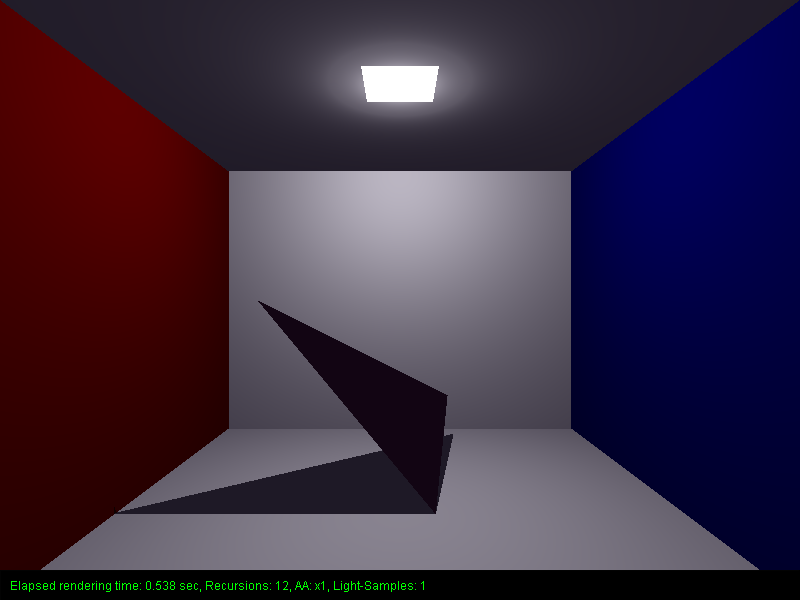
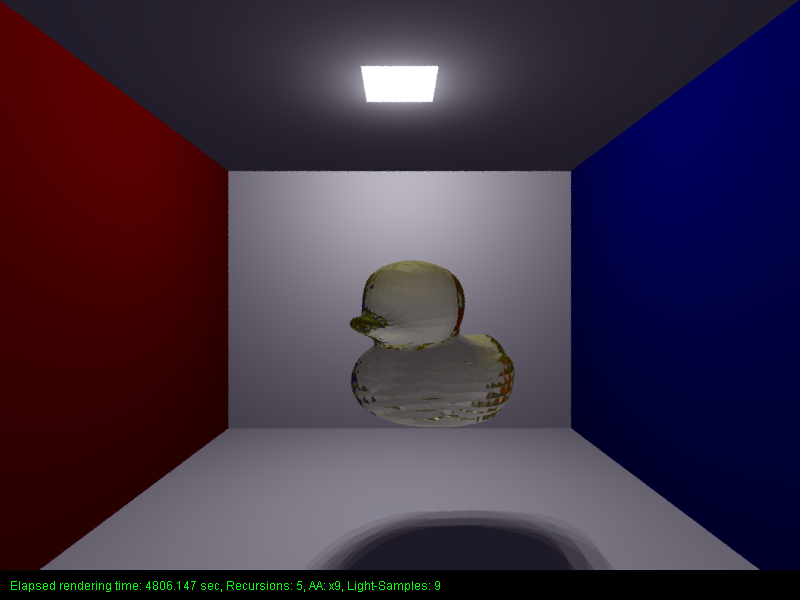
smol transformation order fix and more rendering

Changed region(s): [[0.125, 0.42, 0.7812, 0.99]]

diff --git a/VCG_Raytracer/src/Main.java b/VCG_Raytracer/src/Main.java
@@ -62,14 +62,14 @@ public class Main {
 
     /** RAYTRACER **/
 
-    static final int RECURSIONS = 12;
-    static final int ANTI_ALIASING = (int) Math.pow(1, 2); // only valid AA values are 1 and any number whose sqr root
+    static final int RECURSIONS = 5;
+    static final int ANTI_ALIASING = (int) Math.pow(3, 2); // only valid AA values are 1 and any number whose sqr root
                                                            // results a whole number
     static final boolean USE_SOFT_SHADOWS = false;
 
     /** LIGHT **/
     static final short LIGHT_DENSITY = 20;
-    static final short LIGHT_SAMPLES = (short) Math.pow(1, 2);// only valid AA values are 1 and any number whose sqr
+    static final short LIGHT_SAMPLES = (short) Math.pow(3, 2);// only valid AA values are 1 and any number whose sqr
                                                               // root results a whole number
 
     static final RgbColor BACKGROUND_COLOR = RgbColor.BLACK;
@@ -185,7 +185,7 @@ public class Main {
 
         Material mat_lamp = new Solid();
 
-        Material mat_phong_transparent = new Phong(RgbColor.RED, new RgbColor(0.8f, 1f, 0.8f), 18, 0.0f, 0.8f, WATER);
+        Material mat_phong_transparent = new Phong(RgbColor.PURPLE, new RgbColor(0.8f, 1f, 0.8f), 18, 0.0f, 0.8f, DIAMOND);
 
         // Objects
         // renderScene.createSphere(new Vec3(1.2f,1f,-1.5f), 1f, mat_phong_shiny);
@@ -207,13 +207,13 @@ public class Main {
         // cube tower test
         // renderScene.createCubeTower(1f, new Vec3(-2, 0.5f, -1.5f), mat_phong_shiny);
 
-        renderScene.createPolygon(new Vec3(0.5f, 0, 0), new Vec3(-2, 3, 0), new Vec3(1, 1, -3), mat_lambert);
+        //renderScene.createPolygon(new Vec3(0.5f, 0, 0), new Vec3(-2, 3, 0), new Vec3(1, 1, -3), mat_lambert);
 
         InputStream inStream;
         try { 
-            //we have stanford bunny as a file but it has 5k faces so would take too long to render and would need to be scaled up massively due to v's being e-3 as an example
+            //we have stanford bunny as a file but it has 5k faces so would take too long to render and would need to be scaled up massively due to v's being e-3 as an example --> needs scaling 18ish
             //we also have a 3k faces duck which loads alone but not great together with stuff and as water doesnt look amazing without AA but looks alright with yellow water
-            inStream = new FileInputStream("VCG_Raytracer/models/duck.obj");
+            inStream = new FileInputStream("VCG_Raytracer/models/duck_3k.obj");
             
 
             PolygonMesh polygonMesh;
@@ -221,11 +221,11 @@ public class Main {
             polygonMesh = ObjImporter.load(
                     inStream,
                     new Phong(RgbColor.YELLOW, new RgbColor(0.8f, 1f, 0.8f), 18, 0.0f, 0.8f, WATER),
-                    new Vec3(0f, 0f, -1.4f),
+                    new Vec3(0f, 0f, 0f),
                     new Vec3(0, -45, 0),
-                    2f);
+                    1.7f);
 
-            //renderScene.addShape(polygonMesh); //commented out to make the uploaded version easier to run for now and totally not to hide our masterpiece hehehe
+            renderScene.addShape(polygonMesh); //commented out to make the uploaded version easier to run for now and totally not to hide our masterpiece hehehe
         } catch (Exception e) {
             // TODO Auto-generated catch block
             e.printStackTrace();
@@ -246,8 +246,8 @@ public class Main {
 
             polygonMesh = ObjImporter.load(
                     inStream,
-                    new Lambert(RgbColor.GRAY),
-                    new Vec3(-3, 0.75f, -3),
+                    new Lambert(RgbColor.GREEN),//new Phong(RgbColor.PURPLE, new RgbColor(0.8f, 1f, 0.8f), 18, 0.0f, 0.8f, AIR),
+                    new Vec3(-2.5f, 0.75f, -2.5f),
                     new Vec3(-45, 20, 0),
                     0.7f);
 
@@ -259,8 +259,8 @@ public class Main {
 
             polygonMesh = ObjImporter.load(
                     inStream,
-                    new Phong(RgbColor.PURPLE, new RgbColor(0.8f, 1f, 0.8f), 18, 0.0f, 0.8f, GLASS),
-                    new Vec3(-4f, 6f, 1),
+                    new Lambert(RgbColor.GREEN),//new Phong(RgbColor.PURPLE, new RgbColor(0.8f, 1f, 0.8f), 18, 0.0f, 0.8f, AIR),
+                    new Vec3(-2f, 3f, 1),
                     new Vec3(40, 0, -45),
                     0.5f);
 
@@ -274,8 +274,8 @@ public class Main {
 
             polygonMesh = ObjImporter.load(
                     inStream,
-                    new Phong(RgbColor.RED, new RgbColor(0.8f, 1f, 0.8f), 18, 0.0f, 0.8f, DIAMOND),
-                    new Vec3(32f, 1f, -5f),
+                    new Lambert(RgbColor.GREEN),//new Phong(RgbColor.RED, new RgbColor(0.8f, 1f, 0.8f), 18, 0.0f, 0.8f, AIR),
+                    new Vec3(1f, 0f, 0f),
                     new Vec3(-90, 0, 0),
                     0.03f);
 

diff --git a/VCG_Raytracer/src/utils/ObjImporter.java b/VCG_Raytracer/src/utils/ObjImporter.java
@@ -1,18 +1,17 @@
 package utils;
 
-import scene.material.Material;
-import scene.shape.Polygon;
-import scene.shape.PolygonMesh;
-import utils.algebra.Matrix4x4;
-import utils.algebra.Vec3;
-import utils.algebra.Vec4;
-
 import java.io.BufferedReader;
 import java.io.IOException;
 import java.io.InputStream;
 import java.io.InputStreamReader;
 import java.util.ArrayList;
 import java.util.List;
+import scene.material.Material;
+import scene.shape.Polygon;
+import scene.shape.PolygonMesh;
+import utils.algebra.Matrix4x4;
+import utils.algebra.Vec3;
+import utils.algebra.Vec4;
 
 public class ObjImporter {
 
@@ -73,7 +72,9 @@ public class ObjImporter {
 
         //create a transformation matrix to apply on all polygons before saving em
         Vec4 homoPosition = new Vec4(position.x, position.y, position.z, 1);
-        Matrix4x4 transform = new Matrix4x4().translateXYZW(homoPosition).mult(Matrix4x4.rotation(rotation)).multScalar(scale);
+        Matrix4x4 transform = new Matrix4x4().multScalar(scale);
+        transform = transform.mult(Matrix4x4.rotation(rotation));
+        transform = transform.translateXYZW(homoPosition);
 
         //create a mesh to save all polygons inside of, imo cleaner than saving all of em in shapelist
         PolygonMesh polymesh = new PolygonMesh();
